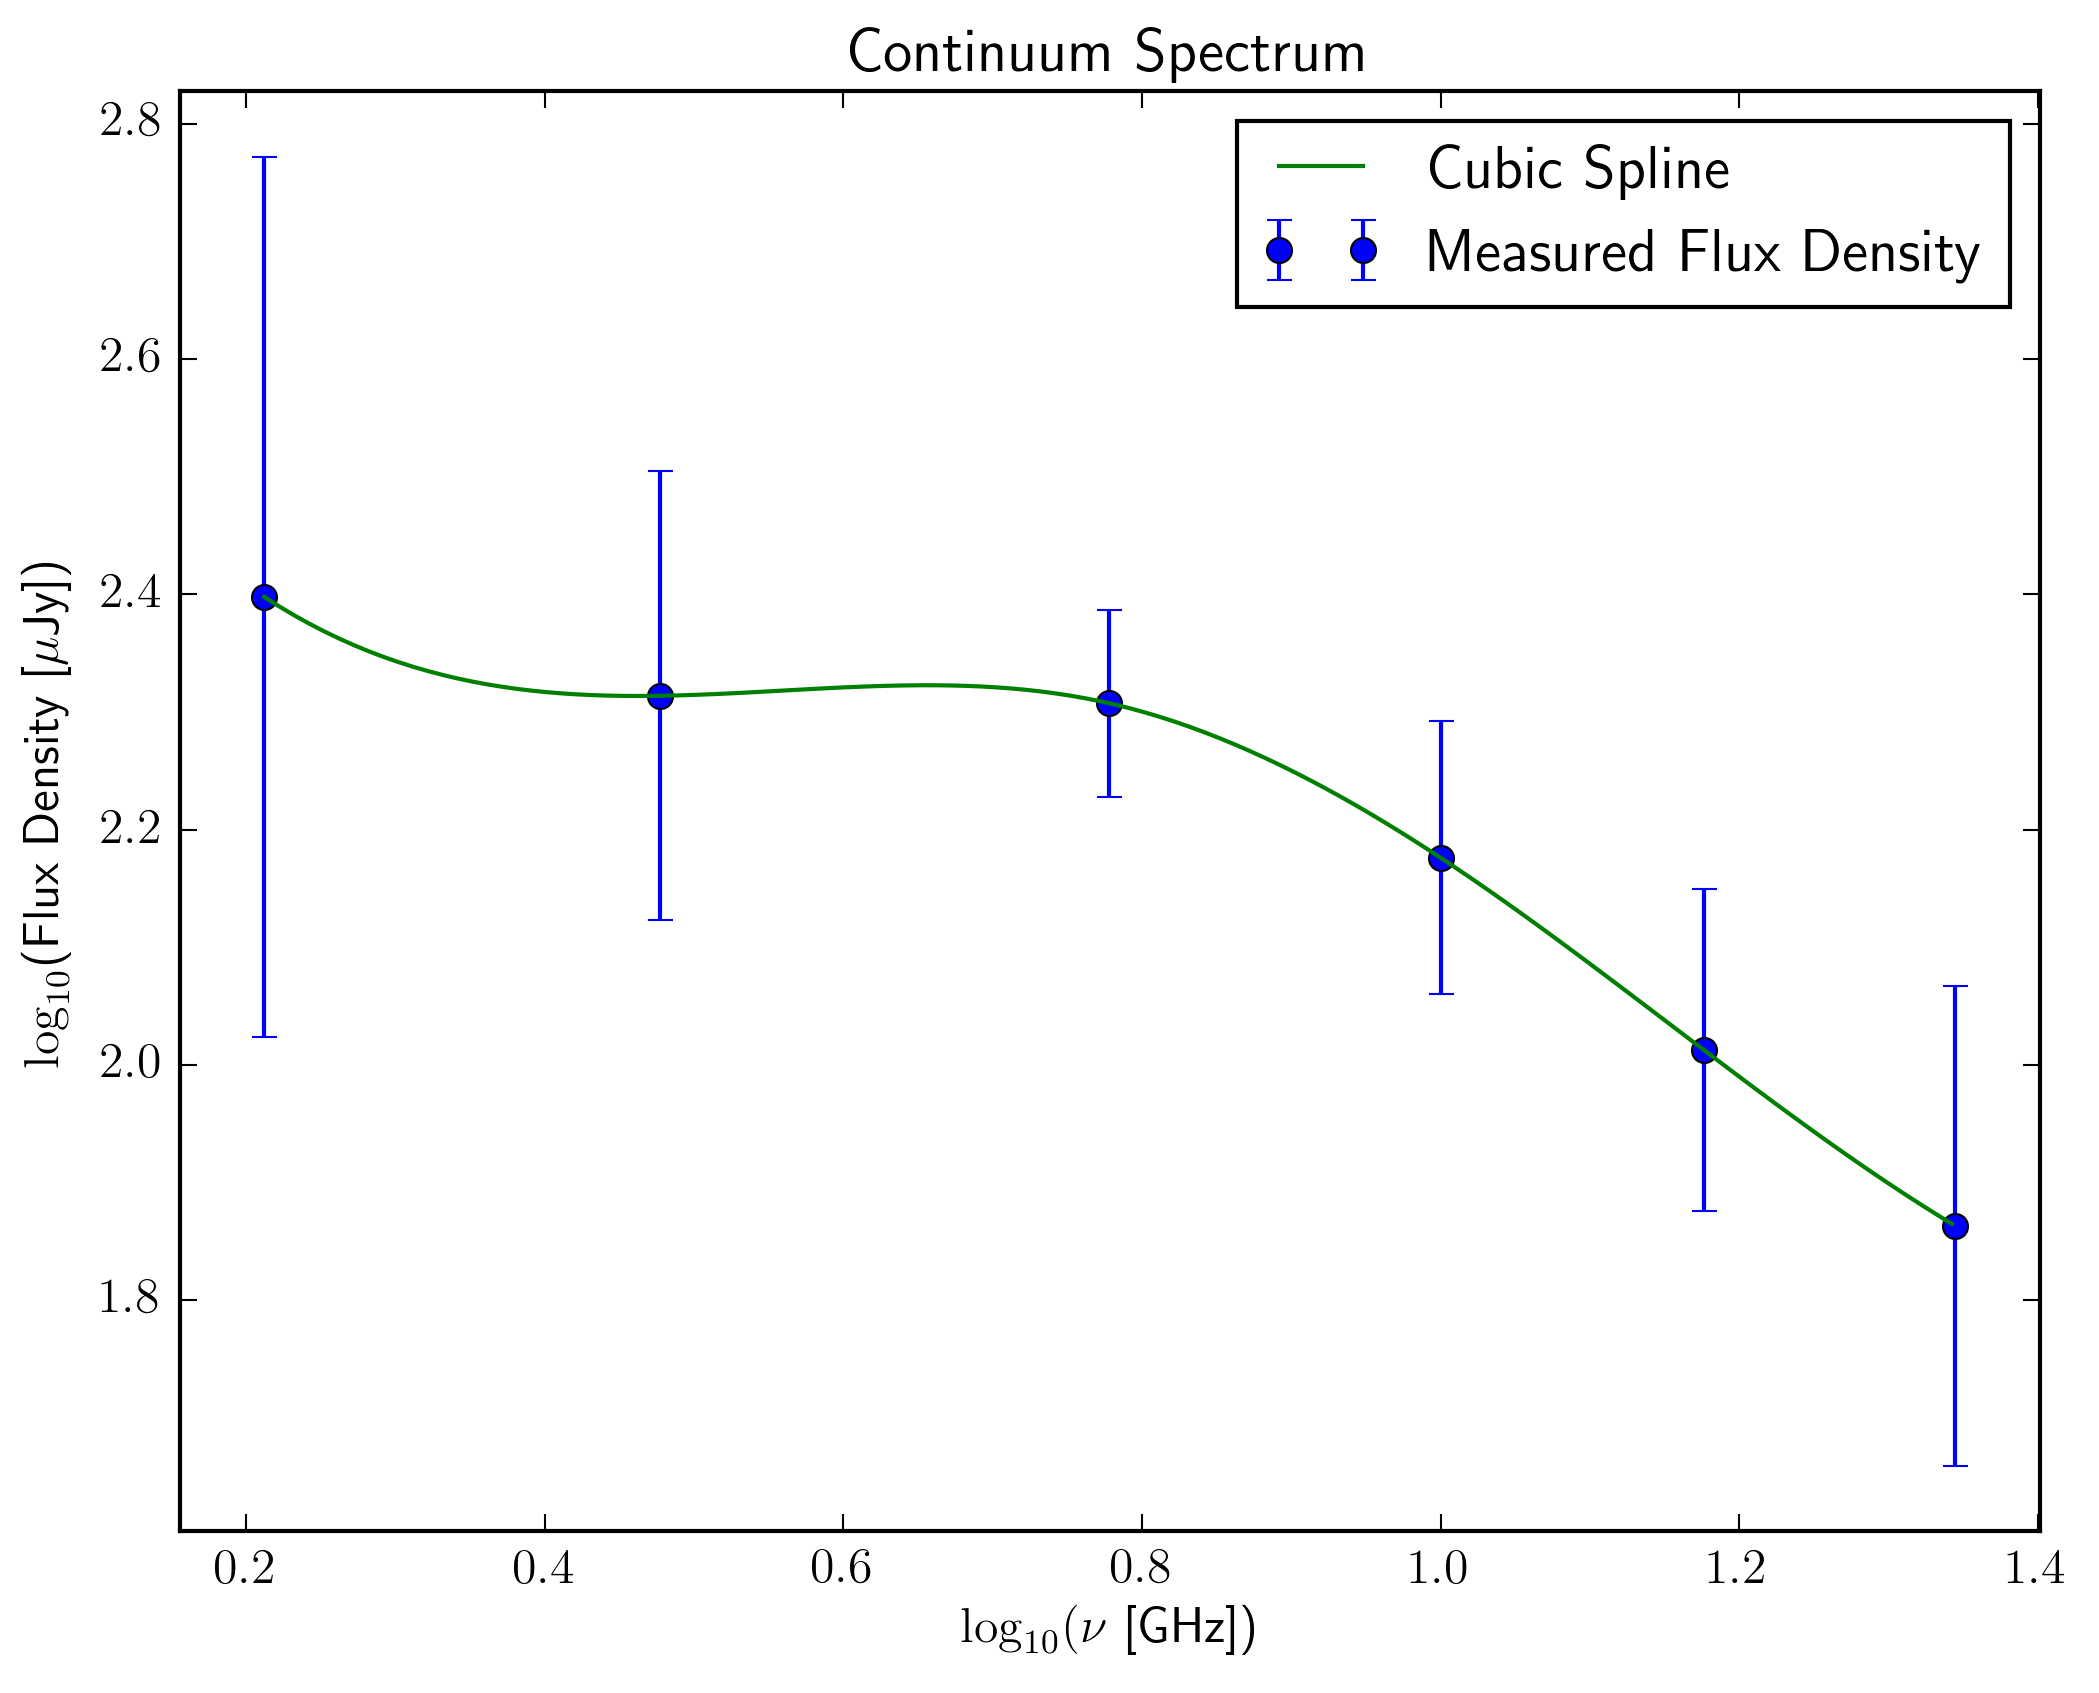
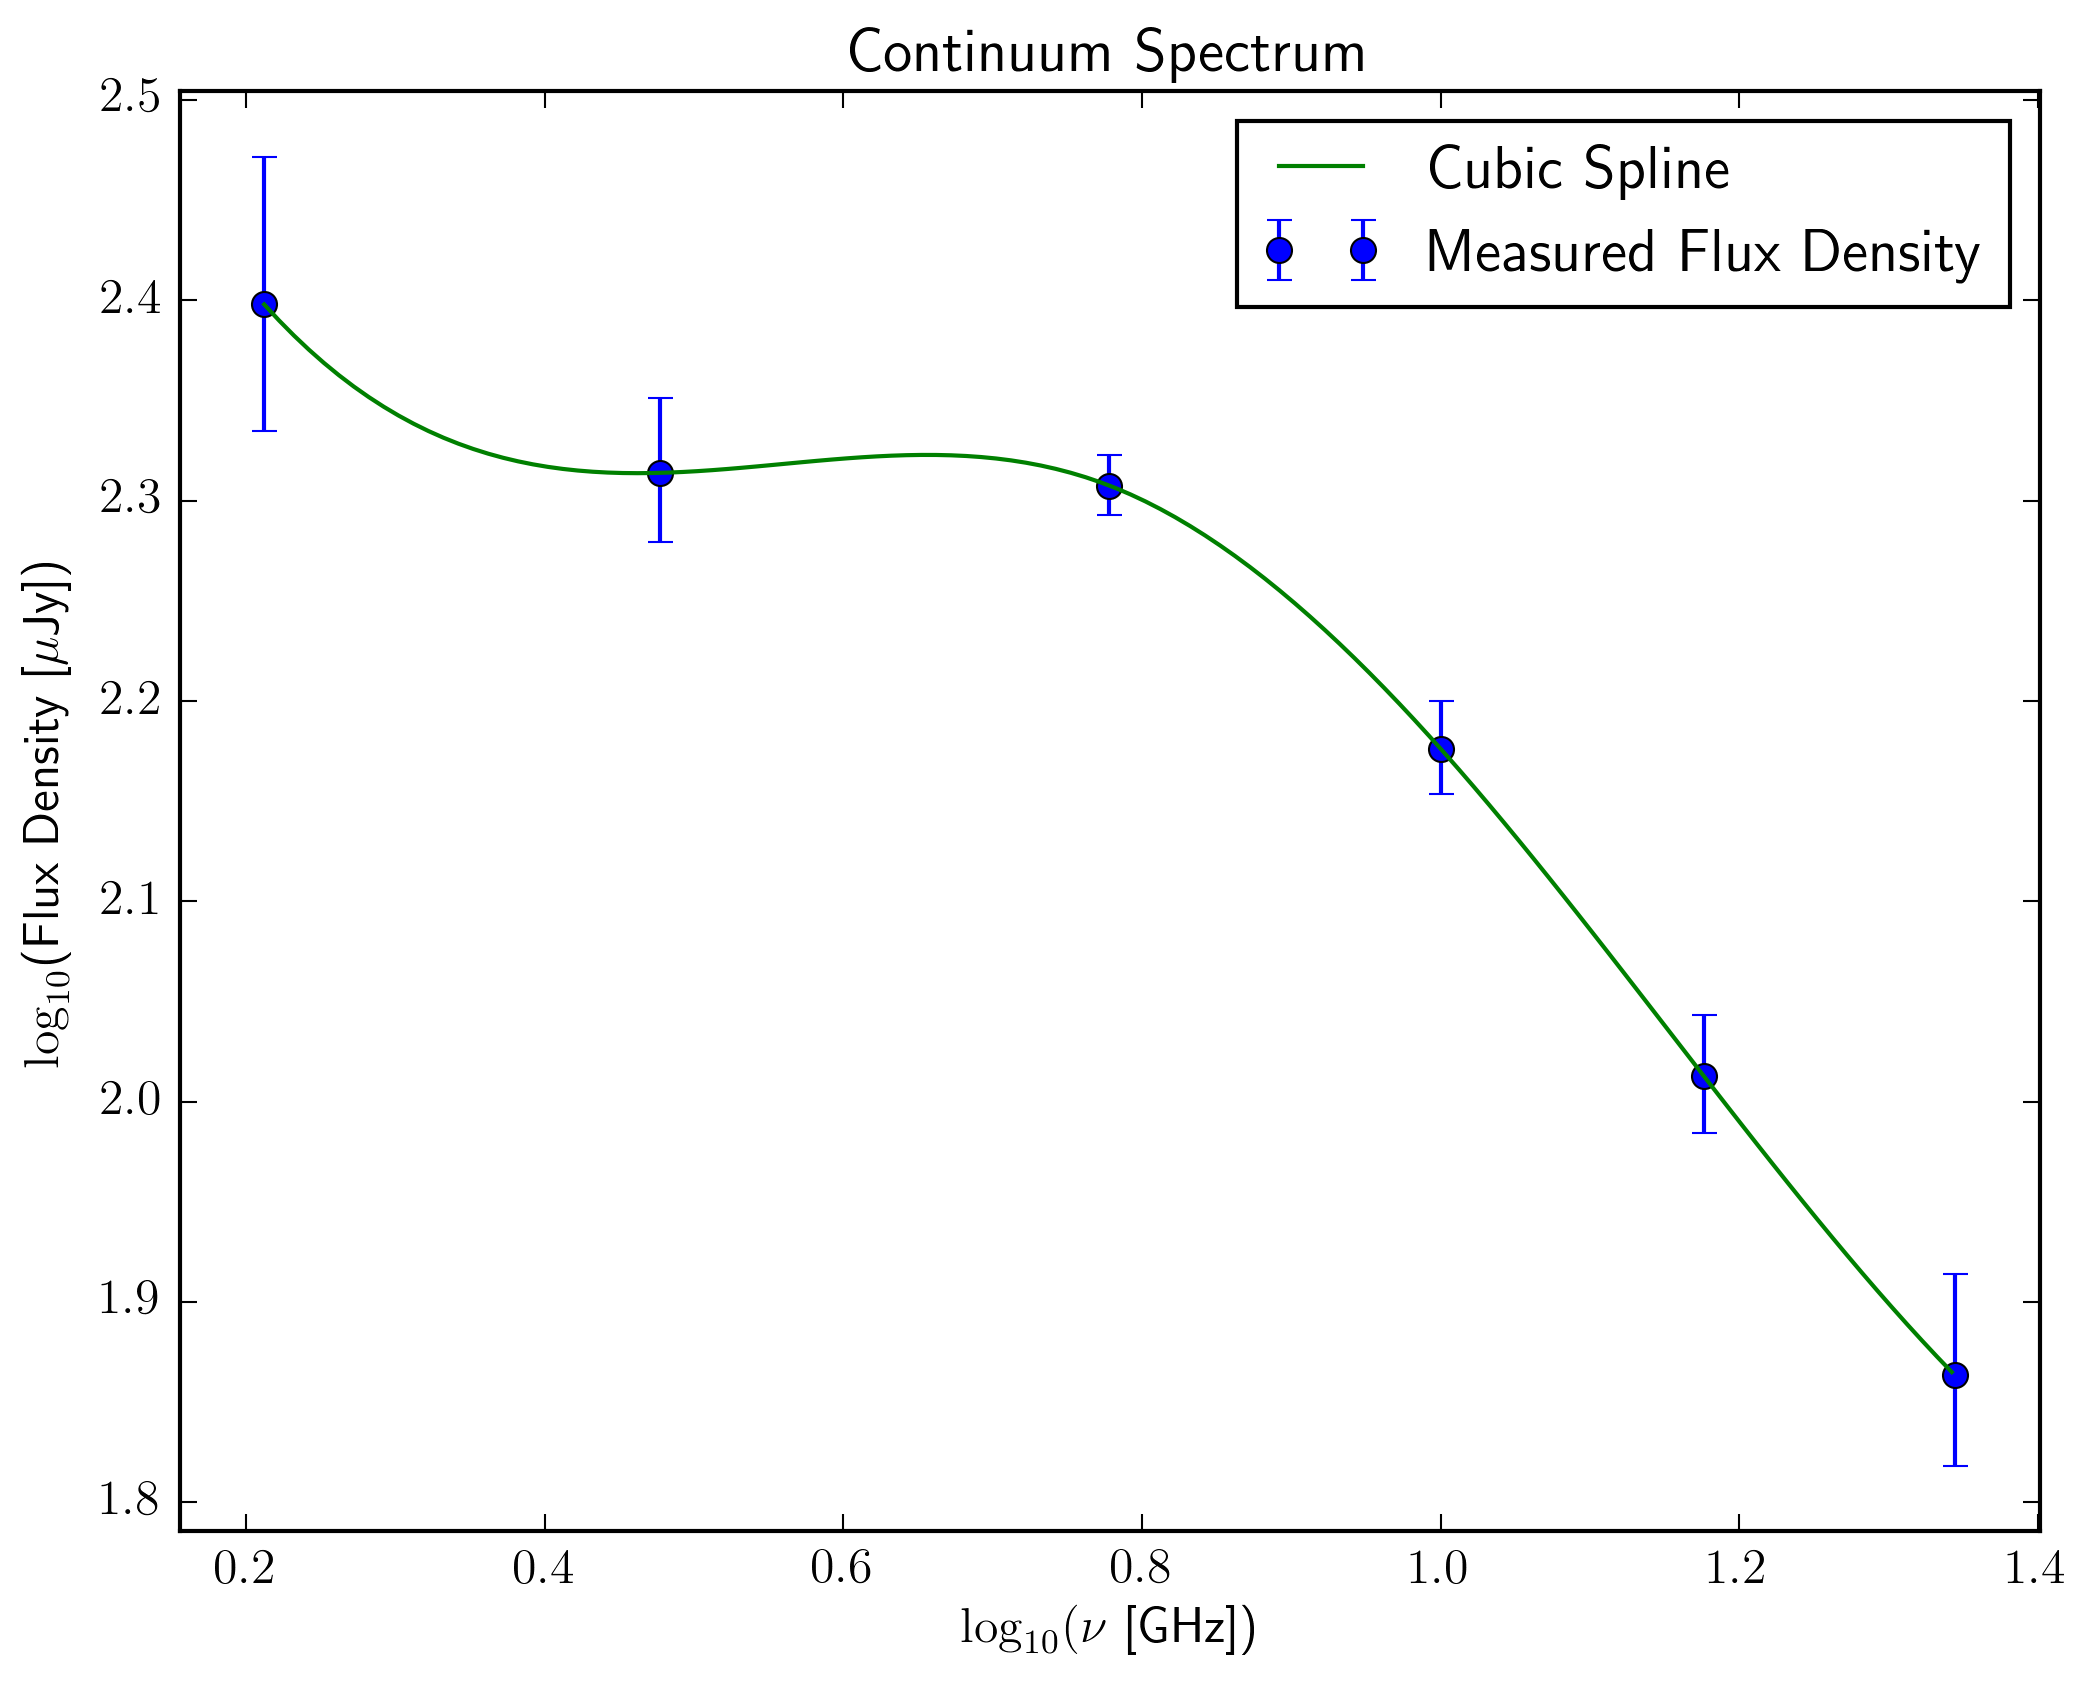
fixed plots

diff --git a/plotter.py b/plotter.py
@@ -25,10 +25,17 @@ x2 =  np.arange(np.amin(np.log10(fluxes[2:6,0])), np.max(np.log10(fluxes[2:6,0])
 p1 = np.poly1d(line1)
 p2 = np.poly1d(line2)
 
+
 popt1, pcov1 = curve_fit(line, np.log10(fluxes[0:3,0]),np.log10(fluxes[0:3,1]))
 popt2, pcov2 = curve_fit(line, np.log10(fluxes[2:6,0]),np.log10(fluxes[2:6,1]))
 perr1 = np.sqrt(np.diag(pcov1))
 perr2 = np.sqrt(np.diag(pcov2))
+popt1line, pcov1line = curve_fit(line, fluxes[0:3,0],fluxes[0:3,1])
+popt2line, pcov2line = curve_fit(line, fluxes[2:6,0],fluxes[2:6,1])
+perr1line = np.sqrt(np.diag(pcov1))
+perr2line = np.sqrt(np.diag(pcov2))
+
+
 print("area under the curve = {0} uJy".format(s.integrate.simps(fluxes[:,1],fluxes[:,0])))
 #splineFull = CubicSpline(fluxes[:,0],fluxes[:,1])
 #xFull =  np.arange(np.amin(fluxes[:,0]), np.max(fluxes[:,0]),0.01)
@@ -44,7 +51,10 @@ print("area under the curve = {0} uJy".format(s.integrate.simps(fluxes[:,1],flux
 #print("Area under spline = {0)".format(splineFull.integrate()(22.1)-splineFull.integrate.(1.63)))
 fig1 = plt.figure()#plot fluxes
 ax1 = fig1.add_subplot(111)
-ax1.errorbar(np.log10(fluxes[:,0]),np.log10(fluxes[:,1]),yerr=np.multiply(np.divide(np.log10(fluxes[:,1]),fluxes[:,1]),fluxes[:,2]),fmt='o')
+
+print np.log10(np.add(fluxes[:,1], fluxes[:,2]))
+#ax1.errorbar(np.log10(fluxes[:,0]),np.log10(fluxes[:,1]),yerr=np.multiply(np.divide(np.log10(fluxes[:,1]),fluxes[:,1]),fluxes[:,2]),fmt='o')
+ax1.errorbar(np.log10(fluxes[:,0]),np.log10(fluxes[:,1]),yerr=[np.subtract(np.log10(np.subtract(fluxes[:,1],fluxes[:,2])),np.log10(fluxes[:,1])),-np.subtract(np.log10(np.add(fluxes[:,1],fluxes[:,2])),np.log10(fluxes[:,1]))],fmt='o')
 #print(xspline)
 #print(spline(xspline))
 ax1.plot(xspline,spline(xspline))
@@ -72,7 +82,7 @@ fig2.savefig('spectral index.png', dpi=300,  bbox_inches='tight')
 
 fig3 = plt.figure()#plot fluxes
 ax3 = fig3.add_subplot(111)
-ax3.errorbar(np.log10(fluxes[:,0]),np.log10(fluxes[:,1]),yerr=np.multiply(np.divide(np.log10(fluxes[:,1]),fluxes[:,1]),fluxes[:,2]),fmt='o')
+ax3.errorbar(np.log10(fluxes[:,0]),np.log10(fluxes[:,1]),yerr=[np.subtract(np.log10(np.subtract(fluxes[:,1],fluxes[:,2])),np.log10(fluxes[:,1])),-np.subtract(np.log10(np.add(fluxes[:,1],fluxes[:,2])),np.log10(fluxes[:,1]))],fmt='o')
 #print(xspline)
 #print(spline(xspline))
 #ax3.plot(xspline,spline(xspline))
@@ -84,5 +94,7 @@ ax3.set_ylabel(r"$\log_{10}$(Flux Density [$\mu$Jy])")
 ax3.legend([r"Best Fit Line ({0:.3f}$\pm${1:.3f})x+{2:.3f}$\pm${3:.3f}".format(popt1[0],perr1[0],popt1[1],perr1[1]),"Best Fit Line ({0:.3f}$\pm${1:.3f})x+{2:.3f}$\pm${3:.3f}".format(popt2[0],perr2[0],popt2[1],perr2[1]),"Measured Flux Density"], loc='best')
 ax3.margins(0.05)
 fig3.savefig('fluxVsFreqLineFit.png', dpi=300, bbox_inches='tight')
+
+
 
 plt.show()
